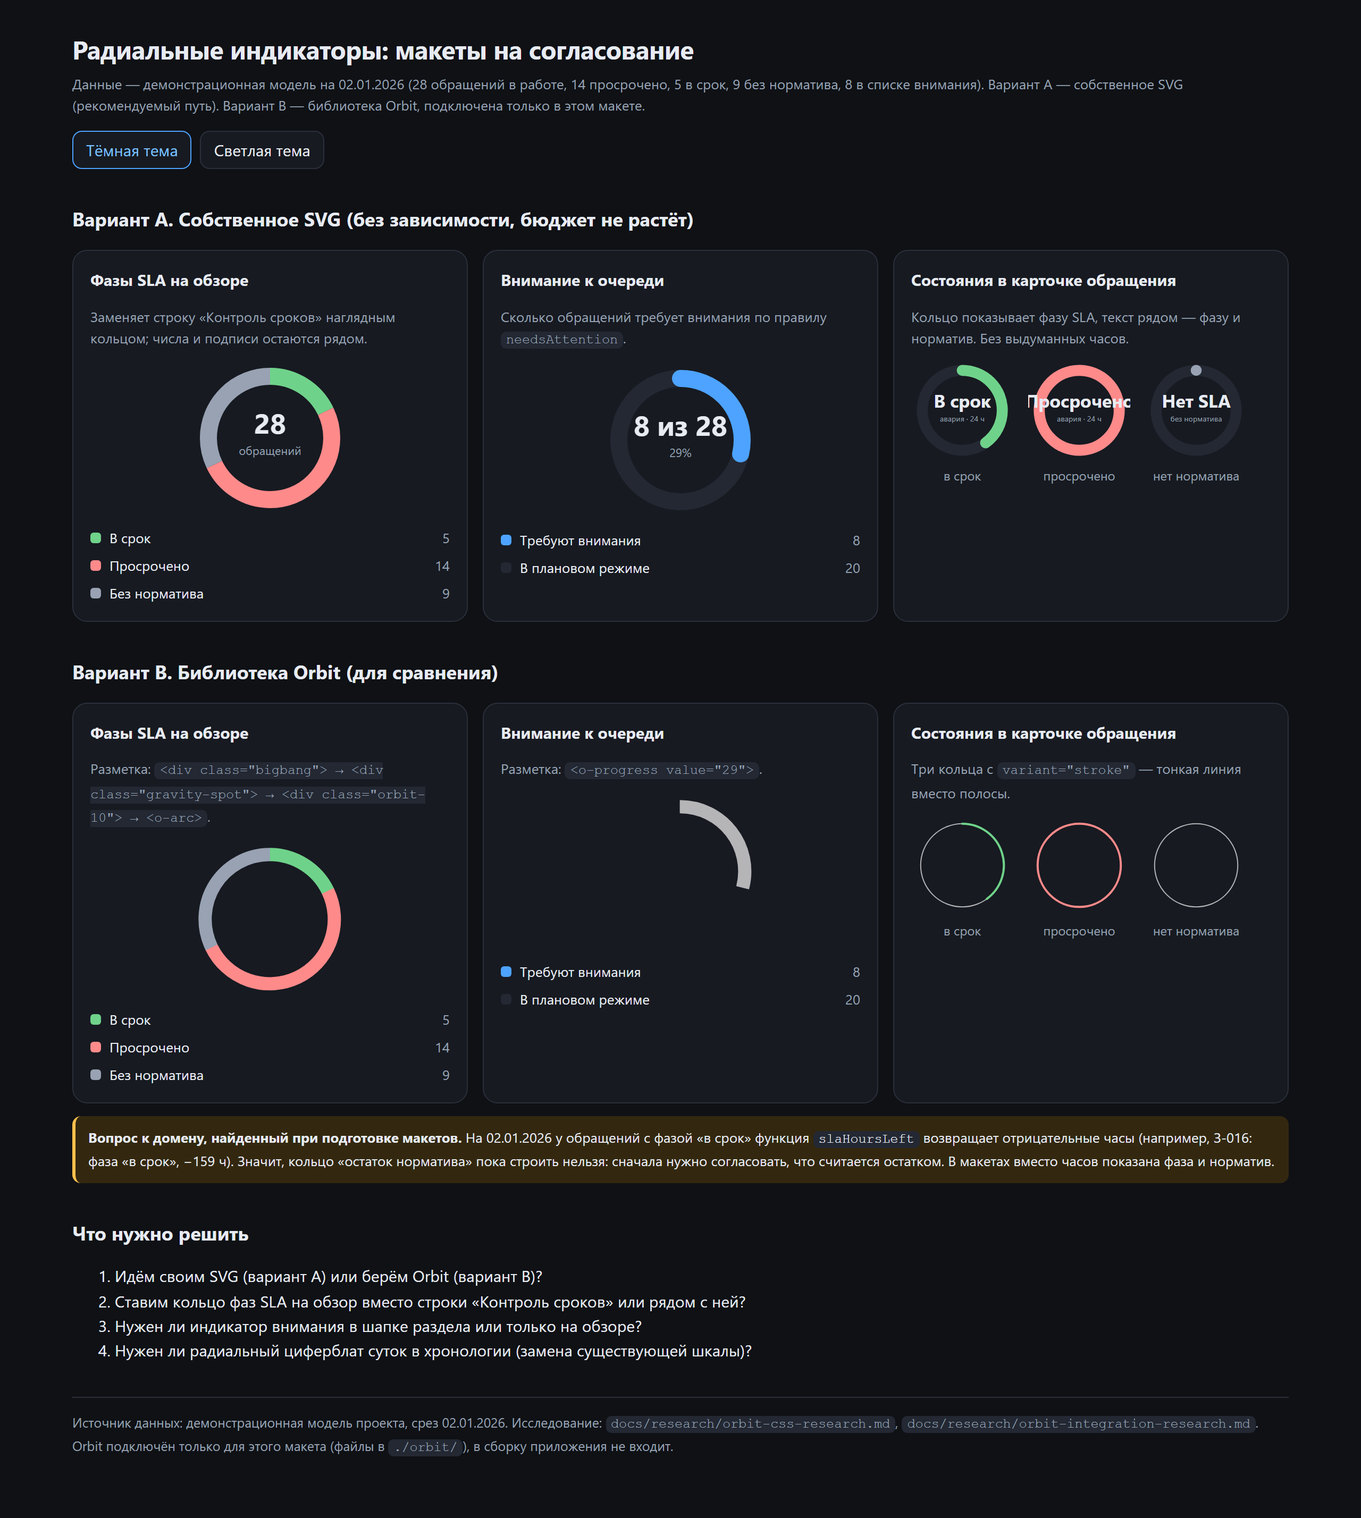
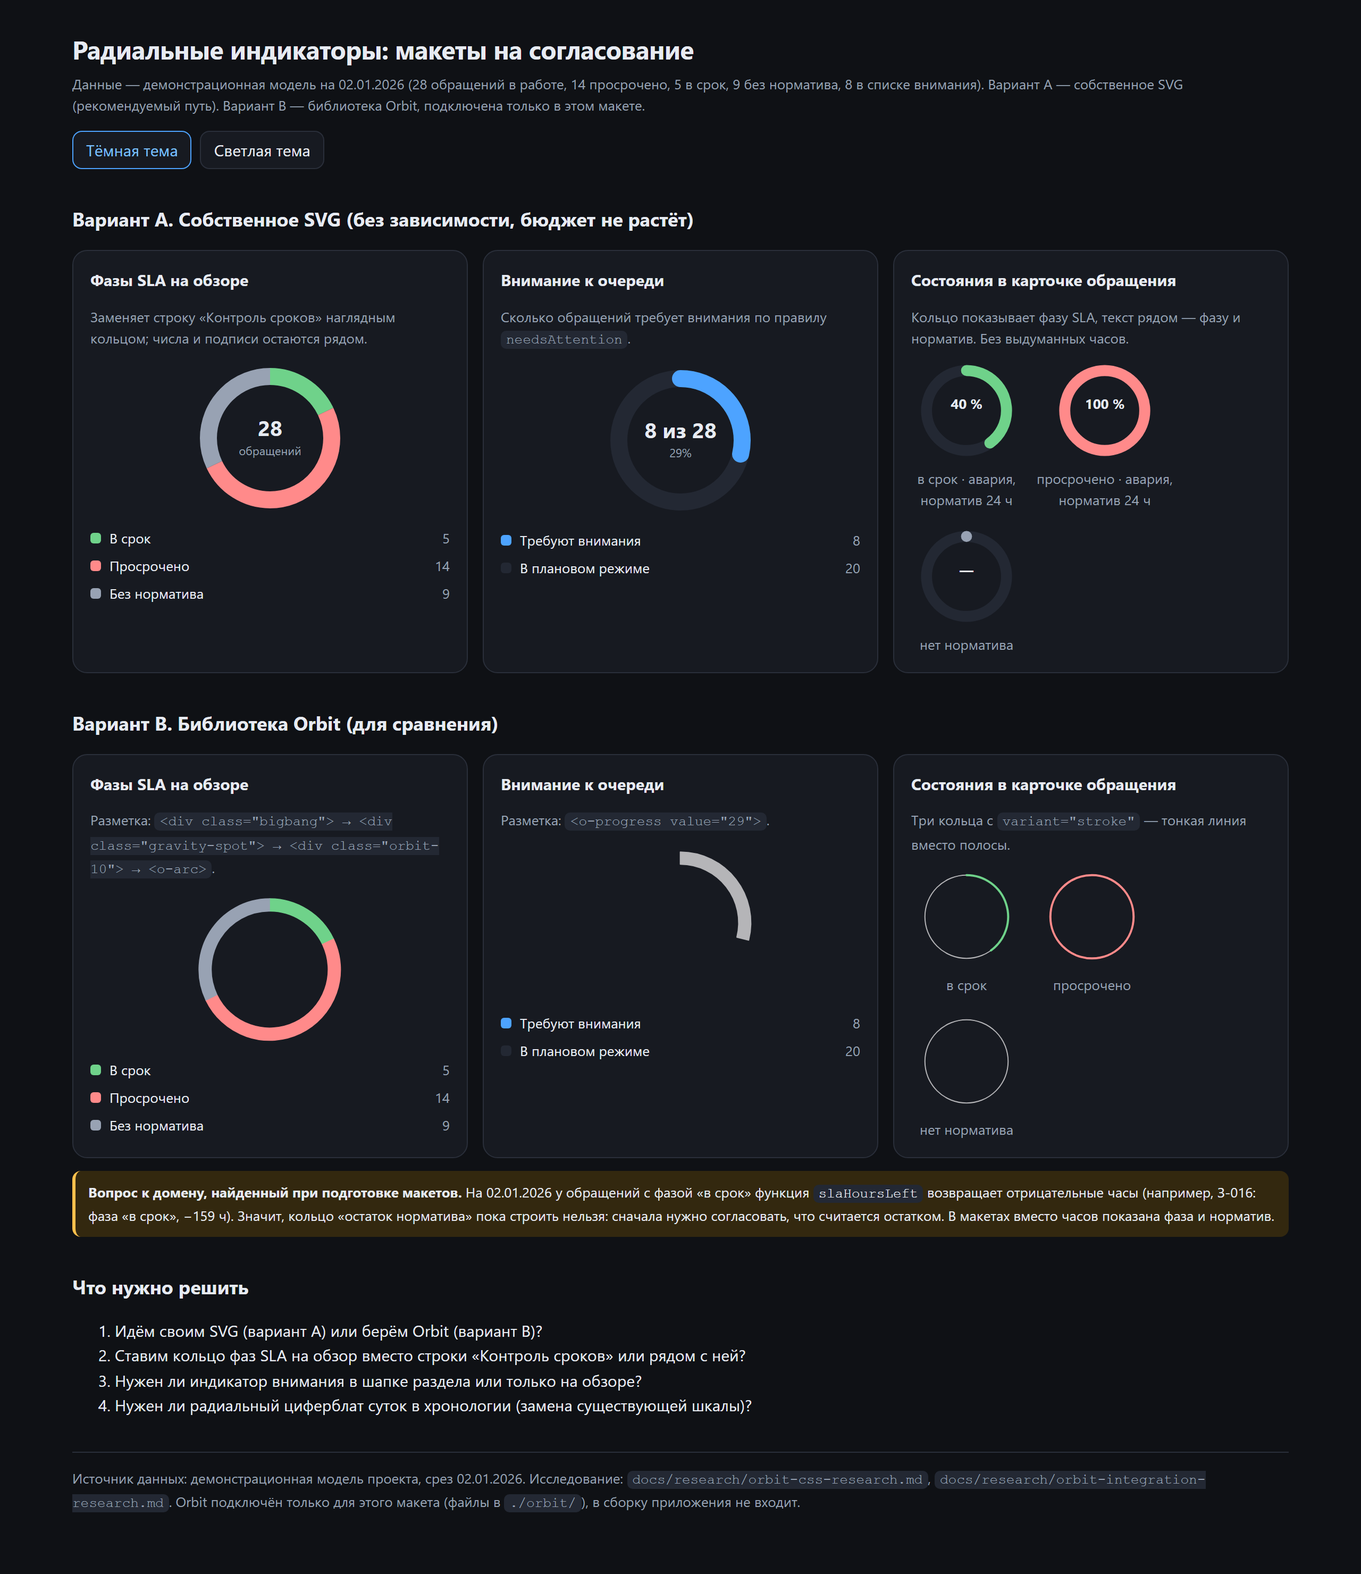
fix(mockups): типографика карточек и колец
Кегль в SVG переведён в единицы viewBox: текст масштабируется вместе с кольцом и не вылезает. Внутри кольца — короткое значение, полные подписи и нормативы вынесены текстом. Шкала сведена к 13/15 px в HTML. Замер: было 107% ширины кольца и шесть кеглей, стало максимум 46% и четыре размера.

diff --git a/docs/design/mockups/radial.html b/docs/design/mockups/radial.html
@@ -51,23 +51,23 @@ h2 { font-size: 18px; margin: 34px 0 6px; }
 h3 { font-size: 15px; margin: 0 0 2px; }
 .muted { color: var(--color-text-muted); font-size: 13px; margin: 0; }
 .toolbar { display: flex; gap: 8px; align-items: center; margin: 14px 0 0; flex-wrap: wrap; }
-button { min-height: 36px; padding: 0 12px; border-radius: 9px; border: 1px solid var(--color-border); background: var(--color-surface); color: var(--color-text); cursor: pointer; font: inherit; }
+button { min-height: 36px; padding: 0 12px; border-radius: 9px; border: 1px solid var(--color-border); background: var(--color-surface); color: var(--color-text); cursor: pointer; font: 15px/1 Inter, "Segoe UI", system-ui, sans-serif; }
 button[aria-pressed='true'] { border-color: var(--color-primary); color: var(--color-primary-strong); }
 .grid { display: grid; gap: 14px; grid-template-columns: repeat(auto-fit, minmax(270px, 1fr)); margin-top: 14px; }
 .card { border: 1px solid var(--color-border); border-radius: 14px; background: var(--color-surface); padding: 16px; display: flex; flex-direction: column; gap: 10px; }
 .card .ring { align-self: center; }
-.ring-value { font-size: 26px; font-weight: 700; fill: var(--color-text); }
-.ring-sub { font-size: 11px; fill: var(--color-text-muted); }
+.ring-value { font-weight: 700; fill: var(--color-text); }
+.ring-sub { fill: var(--color-text-muted); }
 .legend { list-style: none; margin: 0; padding: 0; display: grid; gap: 6px; }
 .legend li { display: grid; grid-template-columns: 10px 1fr auto; gap: 8px; align-items: center; font-size: 13px; }
 .dot { width: 10px; height: 10px; border-radius: 3px; display: inline-block; }
 .legend-count { color: var(--color-text-muted); font-variant-numeric: tabular-nums; }
 .row { display: flex; gap: 14px; align-items: center; flex-wrap: wrap; }
-.state { display: flex; flex-direction: column; align-items: center; gap: 4px; }
-.state small { color: var(--color-text-muted); font-size: 12px; }
+.state { display: flex; flex-direction: column; align-items: center; gap: 6px; min-width: 104px; }
+.state small { color: var(--color-text-muted); font-size: 13px; text-align: center; }
 .note { border-left: 3px solid var(--color-warning-text); background: var(--color-warning-bg); color: var(--color-text); padding: 10px 12px; border-radius: 8px; font-size: 13px; margin-top: 12px; }
-.foot { margin-top: 32px; border-top: 1px solid var(--color-border); padding-top: 14px; color: var(--color-text-muted); font-size: 12.5px; }
-code { background: var(--color-neutral-bg); padding: 1px 5px; border-radius: 5px; font-size: 12.5px; }
+.foot { margin-top: 32px; border-top: 1px solid var(--color-border); padding-top: 14px; color: var(--color-text-muted); font-size: 13px; }
+code { background: var(--color-neutral-bg); padding: 1px 5px; border-radius: 5px; font-size: 13px; }
 /* Палитра Orbit под наши токены (тёмная и светлая темы) */
 .orbit-a { --o-fill: var(--color-primary); --o-back-fill: var(--color-neutral-bg); --o-stroke: var(--color-primary); }
 .o-wrap { display: grid; place-items: center; }
@@ -83,18 +83,18 @@ code { background: var(--color-neutral-bg); padding: 1px 5px; border-radius: 5px
 <h2>Вариант A. Собственное SVG (без зависимости, бюджет не растёт)</h2>
 <div class="grid">
 <div class="card"><h3>Фазы SLA на обзоре</h3><p class="muted">Заменяет строку «Контроль сроков» наглядным кольцом; числа и подписи остаются рядом.</p>
-<svg class="ring" viewBox="0 0 148 148" width="148" height="148" role="img" aria-label="28"><circle cx="74" cy="74" r="58" fill="none" stroke="var(--color-neutral-bg)" stroke-width="16"></circle><circle cx="74" cy="74" r="58" fill="none" stroke="var(--color-success-text)" stroke-width="16" stroke-dasharray="65.08 299.35" stroke-dashoffset="0.00" transform="rotate(-90 74 74)" stroke-linecap="butt"><title>В срок: 5</title></circle><circle cx="74" cy="74" r="58" fill="none" stroke="var(--color-danger-text)" stroke-width="16" stroke-dasharray="182.21 182.21" stroke-dashoffset="-65.08" transform="rotate(-90 74 74)" stroke-linecap="butt"><title>Просрочено: 14</title></circle><circle cx="74" cy="74" r="58" fill="none" stroke="var(--color-text-muted)" stroke-width="16" stroke-dasharray="117.14 247.29" stroke-dashoffset="-247.29" transform="rotate(-90 74 74)" stroke-linecap="butt"><title>Нет SLA: 9</title></circle><text x="74" y="70" text-anchor="middle" class="ring-value">28</text><text x="74" y="90" text-anchor="middle" class="ring-sub">обращений</text></svg>
+<svg class="ring" viewBox="0 0 148 148" width="148" height="148" role="img" aria-label="28"><circle cx="74" cy="74" r="58" fill="none" stroke="var(--color-neutral-bg)" stroke-width="16"></circle><circle cx="74" cy="74" r="58" fill="none" stroke="var(--color-success-text)" stroke-width="16" stroke-dasharray="65.08 299.35" stroke-dashoffset="0.00" transform="rotate(-90 74 74)" stroke-linecap="butt"><title>В срок: 5</title></circle><circle cx="74" cy="74" r="58" fill="none" stroke="var(--color-danger-text)" stroke-width="16" stroke-dasharray="182.21 182.21" stroke-dashoffset="-65.08" transform="rotate(-90 74 74)" stroke-linecap="butt"><title>Просрочено: 14</title></circle><circle cx="74" cy="74" r="58" fill="none" stroke="var(--color-text-muted)" stroke-width="16" stroke-dasharray="117.14 247.29" stroke-dashoffset="-247.29" transform="rotate(-90 74 74)" stroke-linecap="butt"><title>Нет SLA: 9</title></circle><text x="74" y="72" text-anchor="middle" class="ring-value" font-size="20">28</text><text x="74" y="90" text-anchor="middle" class="ring-sub" font-size="11">обращений</text></svg>
 <ul class="legend"><li><span class="dot" style="background:var(--color-success-text)"></span><span class="legend-title">В срок</span><span class="legend-count">5</span></li><li><span class="dot" style="background:var(--color-danger-text)"></span><span class="legend-title">Просрочено</span><span class="legend-count">14</span></li><li><span class="dot" style="background:var(--color-text-muted)"></span><span class="legend-title">Без норматива</span><span class="legend-count">9</span></li></ul>
 </div>
 <div class="card"><h3>Внимание к очереди</h3><p class="muted">Сколько обращений требует внимания по правилу <code>needsAttention</code>.</p>
-<svg class="ring" viewBox="0 0 148 148" width="148" height="148" role="img" aria-label="8 из 28"><circle cx="74" cy="74" r="58" fill="none" stroke="var(--color-neutral-bg)" stroke-width="16"></circle><circle cx="74" cy="74" r="58" fill="none" stroke="var(--color-primary)" stroke-width="16" stroke-linecap="round" stroke-dasharray="104.12 260.30" transform="rotate(-90 74 74)"></circle><text x="74" y="70" text-anchor="middle" class="ring-value">8 из 28</text><text x="74" y="90" text-anchor="middle" class="ring-sub">29%</text></svg>
+<svg class="ring" viewBox="0 0 148 148" width="148" height="148" role="img" aria-label="8 из 28"><circle cx="74" cy="74" r="58" fill="none" stroke="var(--color-neutral-bg)" stroke-width="16"></circle><circle cx="74" cy="74" r="58" fill="none" stroke="var(--color-primary)" stroke-width="16" stroke-linecap="round" stroke-dasharray="104.12 260.30" transform="rotate(-90 74 74)"></circle><text x="74" y="72" text-anchor="middle" class="ring-value" font-size="20">8 из 28</text><text x="74" y="90" text-anchor="middle" class="ring-sub" font-size="11">29%</text></svg>
 <ul class="legend"><li><span class="dot" style="background:var(--color-primary)"></span><span class="legend-title">Требуют внимания</span><span class="legend-count">8</span></li><li><span class="dot" style="background:var(--color-neutral-bg)"></span><span class="legend-title">В плановом режиме</span><span class="legend-count">20</span></li></ul>
 </div>
 <div class="card"><h3>Состояния в карточке обращения</h3><p class="muted">Кольцо показывает фазу SLA, текст рядом — фазу и норматив. Без выдуманных часов.</p>
 <div class="row">
-<div class="state"><svg class="ring" viewBox="0 0 148 148" width="96" height="96" role="img" aria-label="В срок"><circle cx="74" cy="74" r="58" fill="none" stroke="var(--color-neutral-bg)" stroke-width="16"></circle><circle cx="74" cy="74" r="58" fill="none" stroke="var(--color-success-text)" stroke-width="16" stroke-linecap="round" stroke-dasharray="145.77 218.65" transform="rotate(-90 74 74)"></circle><text x="74" y="70" text-anchor="middle" class="ring-value">В срок</text><text x="74" y="90" text-anchor="middle" class="ring-sub">авария · 24 ч</text></svg><small>в срок</small></div>
-<div class="state"><svg class="ring" viewBox="0 0 148 148" width="96" height="96" role="img" aria-label="Просрочено"><circle cx="74" cy="74" r="58" fill="none" stroke="var(--color-neutral-bg)" stroke-width="16"></circle><circle cx="74" cy="74" r="58" fill="none" stroke="var(--color-danger-text)" stroke-width="16" stroke-linecap="round" stroke-dasharray="364.42 0.00" transform="rotate(-90 74 74)"></circle><text x="74" y="70" text-anchor="middle" class="ring-value">Просрочено</text><text x="74" y="90" text-anchor="middle" class="ring-sub">авария · 24 ч</text></svg><small>просрочено</small></div>
-<div class="state"><svg class="ring" viewBox="0 0 148 148" width="96" height="96" role="img" aria-label="Нет SLA"><circle cx="74" cy="74" r="58" fill="none" stroke="var(--color-neutral-bg)" stroke-width="16"></circle><circle cx="74" cy="74" r="58" fill="none" stroke="var(--color-text-muted)" stroke-width="16" stroke-linecap="round" stroke-dasharray="0.00 364.42" transform="rotate(-90 74 74)"></circle><text x="74" y="70" text-anchor="middle" class="ring-value">Нет SLA</text><text x="74" y="90" text-anchor="middle" class="ring-sub">без норматива</text></svg><small>нет норматива</small></div>
+<div class="state"><svg class="ring" viewBox="0 0 148 148" width="96" height="96" role="img" aria-label="В срок: 40 процентов норматива"><circle cx="74" cy="74" r="58" fill="none" stroke="var(--color-neutral-bg)" stroke-width="16"></circle><circle cx="74" cy="74" r="58" fill="none" stroke="var(--color-success-text)" stroke-width="16" stroke-linecap="round" stroke-dasharray="145.77 218.65" transform="rotate(-90 74 74)"></circle><text x="74" y="72" text-anchor="middle" class="ring-value" font-size="20">40 %</text></svg><small>в срок · авария,<br>норматив 24 ч</small></div>
+<div class="state"><svg class="ring" viewBox="0 0 148 148" width="96" height="96" role="img" aria-label="Просрочено: норматив исчерпан"><circle cx="74" cy="74" r="58" fill="none" stroke="var(--color-neutral-bg)" stroke-width="16"></circle><circle cx="74" cy="74" r="58" fill="none" stroke="var(--color-danger-text)" stroke-width="16" stroke-linecap="round" stroke-dasharray="364.42 0.00" transform="rotate(-90 74 74)"></circle><text x="74" y="72" text-anchor="middle" class="ring-value" font-size="20">100 %</text></svg><small>просрочено · авария,<br>норматив 24 ч</small></div>
+<div class="state"><svg class="ring" viewBox="0 0 148 148" width="96" height="96" role="img" aria-label="Нет норматива SLA"><circle cx="74" cy="74" r="58" fill="none" stroke="var(--color-neutral-bg)" stroke-width="16"></circle><circle cx="74" cy="74" r="58" fill="none" stroke="var(--color-text-muted)" stroke-width="16" stroke-linecap="round" stroke-dasharray="0.00 364.42" transform="rotate(-90 74 74)"></circle><text x="74" y="72" text-anchor="middle" class="ring-value" font-size="20">—</text></svg><small>нет норматива</small></div>
 </div>
 </div>
 </div>

diff --git a/docs/journal.md b/docs/journal.md
@@ -101,3 +101,4 @@
 | 2026-11-28 | **Исследование Orbit CSS записано в память проекта.** Разобраны два разных проекта: `@zumer/orbit` 2.3.1 (радиальные интерфейсы: `.bigbang`, `.gravity-spot`, `.orbit-N`, `<o-arc>`/`<o-progress>`, `dev-orbit`, `theme-cyan`, TypeScript/React-типы, Custom Elements Manifest, VS Code custom data) и `orbitcss` 2.0.0 (Flexbox-фреймворк без JS, БЭМ-подобные классы и Sass-переменные, репозиторий архивирован в 2023). Созданы `docs/research/orbit-css-research.md` и `orbit-css-research.json`; указатель добавлен в AGENTS. |
 | 2026-11-28 | **Исследование внедрения Orbit в наш проект.** Проверено: у нас нет рантайм-зависимостей, сборка одна без splitting, бюджеты app.js 180 КБ / demo 260 КБ, тест запрещает сетевые загрузки в бандле. Orbit стоит 186 КБ CSS + 31 КБ JS → в SPA не вписывается (demo ≈ 425 КБ). Спайк во временной папке: в chromium, firefox и webkit датчик рисуется, 0 ошибок, `sin`/container units/`@property` поддержаны. Глобальные селекторы Orbit заскоплены в `.gravity-spot`, пересечений токенов нет. Варианты: O1 спайк-страница (0,25 дня), O2 полная интеграция (2–3 дня, рост бюджетов), O3 своё SVG-кольцо (0,5–1 день), O4 OrbitCSS — отклонить. Документ: `docs/research/orbit-integration-research.md`. |
 | 2026-11-28 | **Макеты радиальных индикаторов на согласование.** Страница `docs/design/mockups/radial.html`: вариант A — своё SVG (кольцо фаз SLA 5/14/9 из 28, внимание к очереди 8 из 28, три состояния карточки), вариант B — те же данные на Orbit; обе темы, снимки десктоп/мобильный. Замеры: 6 карточек, кольца без нулевых размеров, горизонтальной прокрутки нет, текст не мельче 11 px, 0 ошибок в chromium/firefox/webkit. Найден вопрос к домену: при фазе «в срок» `slaHoursLeft` даёт отрицательные часы (З-016: −159 ч) — расчёт остатка нужно согласовать. Лист согласования: `docs/design/mockups/README.md`. |
+| 2026-11-28 | **Исправлена типографика макетов.** По замечанию владельца («шрифты в карточках вылазают как попало»): замер показал, что в маленьких кольцах слово «Просрочено» занимало 107 % ширины кольца с вылетом 6 px, а в карточках было шесть разных кеглей (11/12/12.5/13/15/26). Кегль в SVG переведён в единицы viewBox (текст масштабируется вместе с кольцом), внутри кольца — короткое значение, полные подписи вынесены текстом; шкала сведена к 13/15 px в HTML и 11/20 единицам в SVG. Повторный замер: максимум 46 % ширины кольца, четыре размера (11/13/15/20), выхода за карточку нет. Карточки самого приложения проверены отдельно: 12/13 px, переполнения нет. |

diff --git a/docs/design/mockups/README.md b/docs/design/mockups/README.md
@@ -26,6 +26,13 @@
 
 **Вариант B — библиотека Orbit** (вариант O2): те же три блока на `<o-arc>` и `<o-progress>`, палитра переопределена нашими токенами.
 
+## Типографика
+
+- В HTML — единая шкала: **13 px** вспомогательный текст и легенды, **15 px** заголовки карточек, 18/24 px заголовки разделов.
+- В SVG кегль задан в **единицах viewBox**, поэтому кольцо любого размера масштабирует текст пропорционально и он не вылезает за окружность.
+- Внутри кольца — только короткое значение (28, 8 из 28, 40 %, 100 %, —); полные подписи и нормативы стоят рядом обычным текстом.
+- Было: слово «Просрочено» занимало 107 % ширины кольца (вылет 6 px) и в карточках жили шесть разных кеглей (11/12/12.5/13/15/26). Стало: максимум 46 % ширины и четыре размера (11/13/15/20).
+
 ## Замеры (для честного сравнения)
 
 | Показатель | Вариант A | Вариант B |
